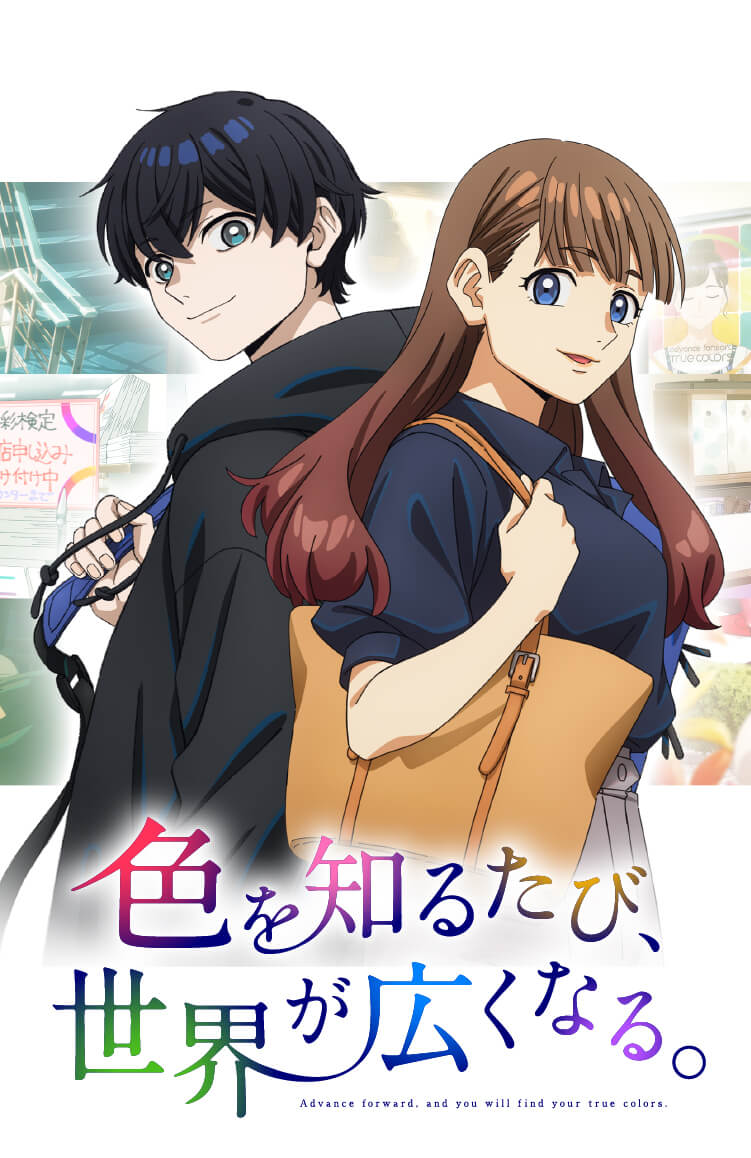
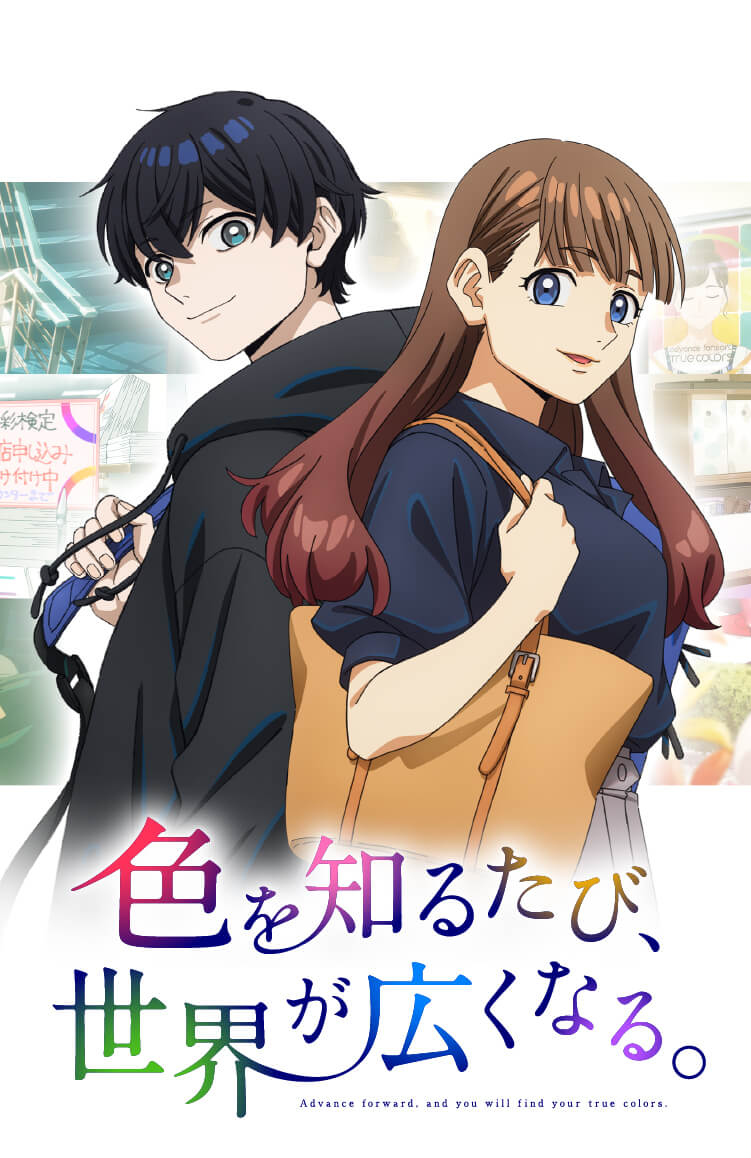
修正

diff --git a/trunk/src/css/index.scss b/trunk/src/css/index.scss
@@ -471,7 +471,7 @@
 			@media (max-width: $max_w) {
 				width: 100%;
 				padding: 0 8px 0 10px;
-				font-size: 5.5vw;
+				font-size: 5vw;
 				text-align: center;
 				line-height: 1.5;
 				letter-spacing: 1.5vw;
@@ -535,27 +535,6 @@
 
 				@media (max-width: $max_w) {
 					transform: translateY(50%) scale(1.2);
-				}
-			}
-		}
-	}
-
-	&.charabtn__disable {
-		pointer-events: none;
-
-		>a {
-			&:nth-child(2) {
-				>img {
-					left: 50%;
-					transform: translate(-50%, 50%);
-				}
-
-				>div {
-					width: 100%;
-					right: 50%;
-					transform: translate(50%, 50%);
-					transform-origin: center;
-					text-align: center;
 				}
 			}
 		}
@@ -680,7 +659,7 @@
 				line-height: 1;
 				text-align: center;
 				letter-spacing: 5px;
-				content: 'Comming Soon';
+				content: 'Coming Soon';
 				color: #fff;
 			}
 		}

diff --git a/trunk/src/js/index.js b/trunk/src/js/index.js
@@ -130,7 +130,7 @@
 		});
 
 		let $charabtn = $('.js_charabtn');
-		if(window.innerWidth <= spBlake) {
+		if(window.innerWidth > spBlake) {
 			$charabtn.hover((e) => {
 				$(e.currentTarget).addClass('is_active');
 				$charabtn.not('.is_active').addClass('is_shot');
